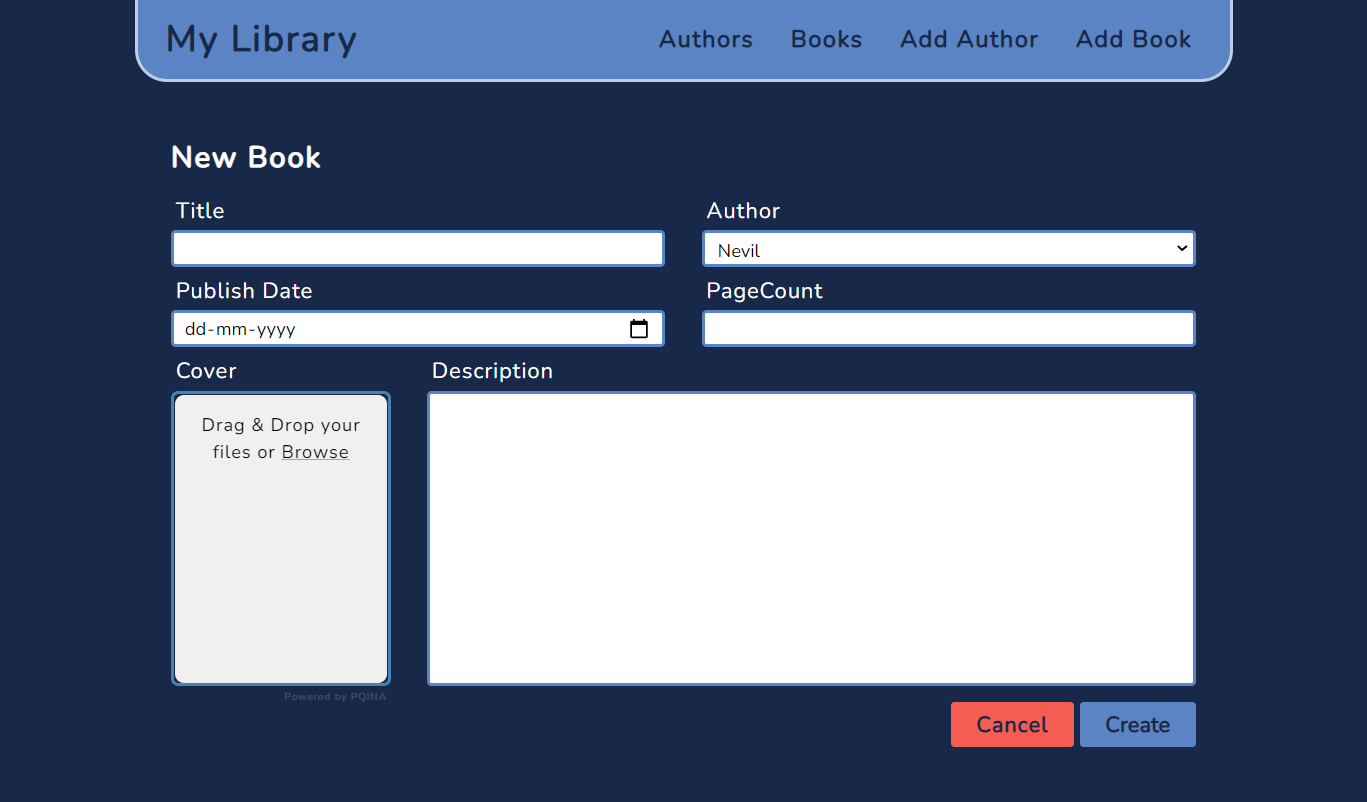
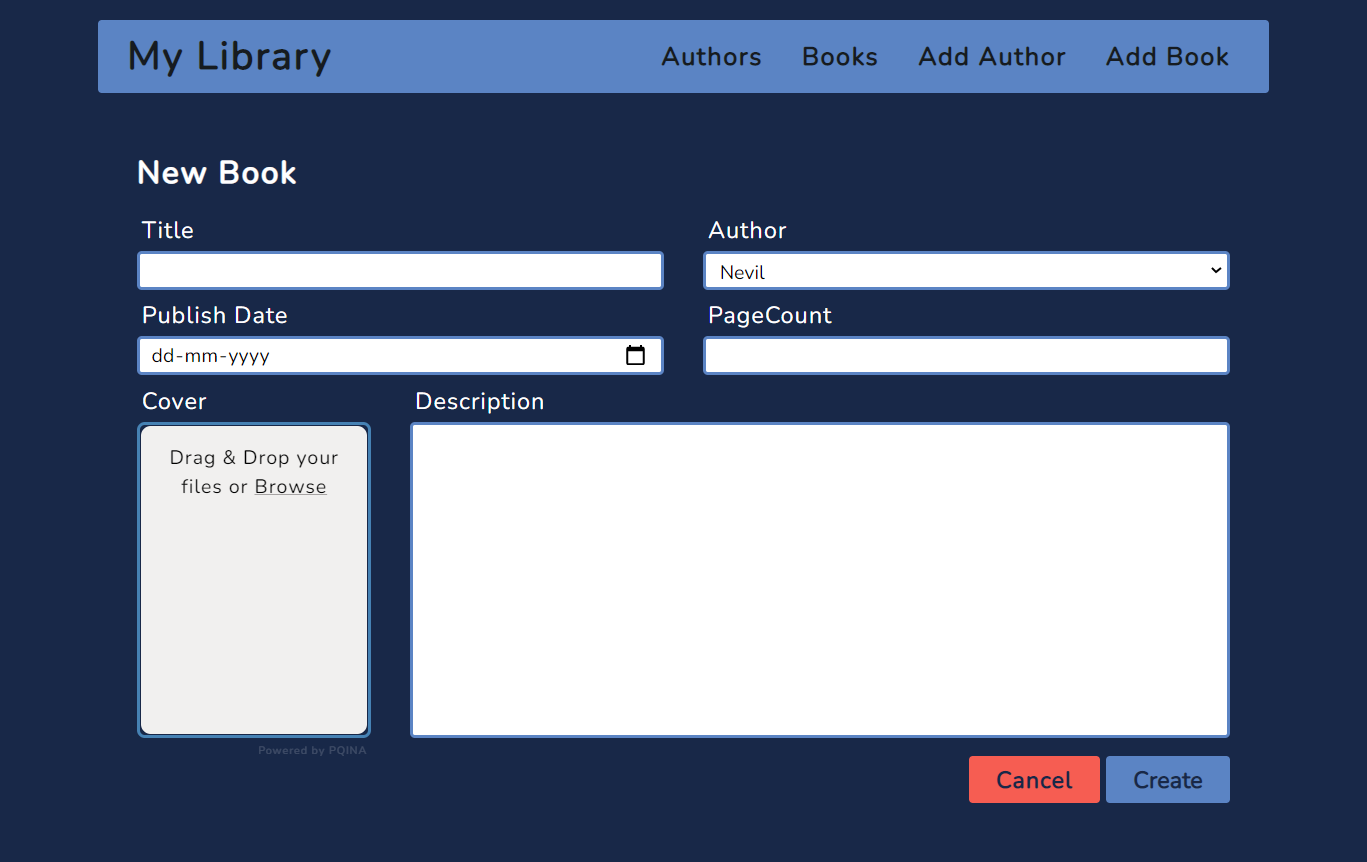
Updated

Changed region(s): [[0.0922, 0.2494, 0.9217, 0.9352], [0.0614, 0.0, 0.9525, 0.1247], [0.0922, 0.187, 0.2458, 0.2182]]

diff --git a/public/css/shared/header.css b/public/css/shared/header.css
@@ -1,6 +1,6 @@
 .header-title{
     color: var(--color-text-light);
-    color: #182848;
+    color: #161b21;
     margin-left: 10px;
     text-decoration: none;
     font-size: 2rem;
@@ -15,12 +15,11 @@
     justify-content: space-between;
     align-items: center;
     margin-bottom: 3rem;
-    height: 90px;
+    margin-top: 1rem;
+    height: 75px;
     padding:0px 20px;
-    border-bottom-left-radius: 35px;
-    border-bottom-right-radius: 35px;
+    border-radius: 4px;
     background-color: #5b84c4;
-    border: 4px solid rgba(255, 255, 255, 0.6);
     border-top: 0;
 }
 
@@ -35,13 +34,10 @@
 .header-nav ul a{
     text-decoration: none;
     color: var(--color-text-light);
-    color: #182848;
+    color: #161b21;
     font-size: 1.3rem;
     padding: 0.5rem 1rem;
     font-weight: 600;
     letter-spacing: 1.5px;
     transition: all 0.3s ease-in-out;
-}
-.header-nav li a:hover, .header-title:hover{
-    color: rgba(255, 255, 255, 0.8);
 }
